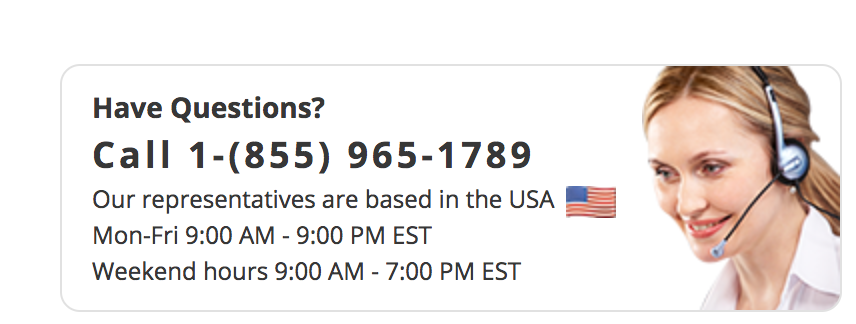
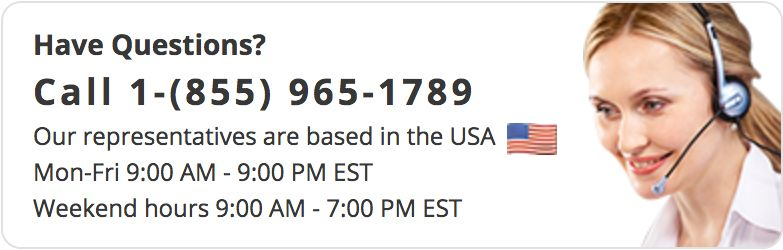
5 steps email ui issue fixed

diff --git a/resources/views/new_emails/pdf/finalSigningInstructions.blade.php b/resources/views/new_emails/pdf/finalSigningInstructions.blade.php
@@ -39,12 +39,12 @@
                 <table cellpadding="0" cellspacing="0" border="0" width="600" class="container">
                     <tr>
                         <td style="background: #003b7b; color:#fff; text-align: center; font-size: 18px; padding: 14px 10px;">
-                                <span style="color: #99cc33;">Need Help?</span> 1-855-965-1789
+                               <span style="color: #99cc33;">Need Help?</span> 1-855-965-1789
                         </td>
                     </tr>
                     <tr>
                         <td>
-                            <img src="{{url('/')}}/images/logo.jpg" alt="simplywilled.com" style="display: block;">
+                            <a href="{{url('/')}}"><img src="{{url('/')}}/images/logo.jpg" alt="simplywilled.com" style="display: block;"></a>
                         </td>
                     </tr>
                     <tr>
@@ -73,11 +73,11 @@
                         <tr>
                           <td>
                             <!-- Contact & Follow Buttons -->
-                             <div style="text-align: center;padding: 15px 0;">
-                              <div style="text-align: center;">
-                                  <img src="{{url('/')}}/images/callus.jpg" style="height: 155px; margin-top: -40px;" alt="">
+                             <div style="text-align: center;padding: 15px 0; background: #fff;">
+                              <div style="text-align: center; padding-top: 15px">
+                                  <a href="{{url('/')}}"><img src="{{url('/')}}/images/callus.jpg" style="height: 155px;" alt=""></a>
                               </div>
-                              <ul style="list-style-type: none; margin-top: -8px; text-align: center;">
+                              <ul style="list-style-type: none; margin-top: 10px; text-align: center;">
                                   <li style="display: inline-block; padding: 5px; "><a href="https://www.facebook.com/SimplyWilled"><img src="{{url('/')}}/images/fd-icon.png"></a></li>
                                   <li style="display: inline-block; padding: 5px;"><a href="https://twitter.com/simplywilled"><img src="{{url('/')}}/images/ttr-icon.png"></a></li>
                                   <li style="display: inline-block; padding: 5px;"><a href="https://www.linkedin.com/company/simplywilled.com"><img  src="{{url('/')}}/images/in-icon.png"></a></li>

diff --git a/resources/views/new_emails/pdf/lastWill.blade.php b/resources/views/new_emails/pdf/lastWill.blade.php
@@ -44,7 +44,7 @@
                     </tr>
                     <tr>
                         <td>
-                            <img src="{{url('/')}}/images/logo.jpg" alt="simplywilled.com" style="display: block;">
+                            <a href="{{url('/')}}"><img src="{{url('/')}}/images/logo.jpg" alt="simplywilled.com" style="display: block;"></a>
                         </td>
                     </tr>
                     <tr>
@@ -73,17 +73,17 @@
                         <tr>
                           <td>
                             <!-- Contact & Follow Buttons -->
-                            <div style="text-align: center;padding: 15px 0;">
-                              <div style="text-align: center;">
-                                  <img src="{{url('/')}}/images/callus.jpg" style="height: 155px; margin-top: -40px;" alt="">
+                            <div style="text-align: center;padding: 15px 0; background: #fff;">
+                              <div style="text-align: center; padding-top: 15px">
+                                  <a href="{{url('/')}}"><img src="{{url('/')}}/images/callus.jpg" style="height: 155px;" alt=""></a>
                               </div>
-                              <ul style="list-style-type: none; margin-top: -8px; text-align: center;">
+                              <ul style="list-style-type: none; margin-top: 10px; text-align: center;">
                                   <li style="display: inline-block; padding: 5px; "><a href="https://www.facebook.com/SimplyWilled"><img src="{{url('/')}}/images/fd-icon.png"></a></li>
                                   <li style="display: inline-block; padding: 5px;"><a href="https://twitter.com/simplywilled"><img src="{{url('/')}}/images/ttr-icon.png"></a></li>
                                   <li style="display: inline-block; padding: 5px;"><a href="https://www.linkedin.com/company/simplywilled.com"><img  src="{{url('/')}}/images/in-icon.png"></a></li>
                                   <li style="display: inline-block; padding: 5px;"><a href="https://www.instagram.com/simplywilled"><img src="{{url('/')}}/images/gram-icon.png"></a></li>
                                 </ul>
-                            </div>
+                            </div> 
                           </td>
                         </tr>
                         <tr>

diff --git a/resources/views/new_emails/pdf/finances.blade.php b/resources/views/new_emails/pdf/finances.blade.php
@@ -44,7 +44,7 @@
                     </tr>
                     <tr>
                         <td>
-                            <img src="{{url('/')}}/images/logo.jpg" alt="simplywilled.com" style="display: block;">
+                           <a href="{{url('/')}}"><img src="{{url('/')}}/images/logo.jpg" alt="simplywilled.com" style="display: block;"></a>
                         </td>
                     </tr>
                     <tr>
@@ -73,17 +73,17 @@
                         <tr>
                           <td>
                             <!-- Contact & Follow Buttons -->
-                            <div style="text-align: center;padding: 15px 0;">
-                              <div style="text-align: center;">
-                                  <img src="{{url('/')}}/images/callus.jpg" style="height: 155px; margin-top: -40px;" alt="">
+                            <div style="text-align: center;padding: 15px 0; background: #fff;">
+                              <div style="text-align: center; padding-top: 15px">
+                                  <a href="{{url('/')}}"><img src="{{url('/')}}/images/callus.jpg" style="height: 155px;" alt=""></a>
                               </div>
-                              <ul style="list-style-type: none; margin-top: -8px; text-align: center;">
+                              <ul style="list-style-type: none; margin-top: 10px; text-align: center;">
                                   <li style="display: inline-block; padding: 5px; "><a href="https://www.facebook.com/SimplyWilled"><img src="{{url('/')}}/images/fd-icon.png"></a></li>
                                   <li style="display: inline-block; padding: 5px;"><a href="https://twitter.com/simplywilled"><img src="{{url('/')}}/images/ttr-icon.png"></a></li>
                                   <li style="display: inline-block; padding: 5px;"><a href="https://www.linkedin.com/company/simplywilled.com"><img  src="{{url('/')}}/images/in-icon.png"></a></li>
                                   <li style="display: inline-block; padding: 5px;"><a href="https://www.instagram.com/simplywilled"><img src="{{url('/')}}/images/gram-icon.png"></a></li>
                                 </ul>
-                            </div>
+                            </div> 
                           </td>
                         </tr>
                         <tr>

diff --git a/resources/views/new_emails/pdf/finalDisposition.blade.php b/resources/views/new_emails/pdf/finalDisposition.blade.php
@@ -44,7 +44,7 @@
                     </tr>
                     <tr>
                         <td>
-                            <img src="{{url('/')}}/images/logo.jpg" alt="simplywilled.com" style="display: block;">
+                            <a href="{{url('/')}}"><img src="{{url('/')}}/images/logo.jpg" alt="simplywilled.com" style="display: block;"></a>
                         </td>
                     </tr>
                     <tr>
@@ -73,11 +73,11 @@
                         <tr>
                           <td>
                             <!-- Contact & Follow Buttons -->
-                            <div style="text-align: center;padding: 15px 0;">
-                              <div style="text-align: center;">
-                                  <img src="{{url('/')}}/images/callus.jpg" style="height: 155px; margin-top: -40px;" alt="">
+                            <div style="text-align: center;padding: 15px 0; background: #fff;">
+                              <div style="text-align: center; padding-top: 15px">
+                                  <a href="{{url('/')}}"><img src="{{url('/')}}/images/callus.jpg" style="height: 155px;" alt=""></a>
                               </div>
-                              <ul style="list-style-type: none; margin-top: -8px; text-align: center;">
+                              <ul style="list-style-type: none; margin-top: 10px; text-align: center;">
                                   <li style="display: inline-block; padding: 5px; "><a href="https://www.facebook.com/SimplyWilled"><img src="{{url('/')}}/images/fd-icon.png"></a></li>
                                   <li style="display: inline-block; padding: 5px;"><a href="https://twitter.com/simplywilled"><img src="{{url('/')}}/images/ttr-icon.png"></a></li>
                                   <li style="display: inline-block; padding: 5px;"><a href="https://www.linkedin.com/company/simplywilled.com"><img  src="{{url('/')}}/images/in-icon.png"></a></li>

diff --git a/resources/views/new_emails/pdf/statesDoc.blade.php b/resources/views/new_emails/pdf/statesDoc.blade.php
@@ -44,7 +44,7 @@
                     </tr>
                     <tr>
                         <td>
-                            <img src="{{url('/')}}/images/logo.jpg" alt="simplywilled.com" style="display: block;">
+                            <a href="{{url('/')}}"><img src="{{url('/')}}/images/logo.jpg" alt="simplywilled.com" style="display: block;"></a>
                         </td>
                     </tr>
                     <tr>
@@ -73,11 +73,11 @@
                         <tr>
                           <td>
                             <!-- Contact & Follow Buttons -->
-                            <div style="text-align: center;padding: 15px 0;">
-                              <div style="text-align: center;">
-                                  <img src="{{url('/')}}/images/callus.jpg" style="height: 155px; margin-top: -40px;" alt="">
+                            <div style="text-align: center;padding: 15px 0; background: #fff;">
+                              <div style="text-align: center; padding-top: 15px">
+                                  <a href="{{url('/')}}"><img src="{{url('/')}}/images/callus.jpg" style="height: 155px;" alt=""></a>
                               </div>
-                              <ul style="list-style-type: none; margin-top: -8px; text-align: center;">
+                              <ul style="list-style-type: none; margin-top: 10px; text-align: center;">
                                   <li style="display: inline-block; padding: 5px; "><a href="https://www.facebook.com/SimplyWilled"><img src="{{url('/')}}/images/fd-icon.png"></a></li>
                                   <li style="display: inline-block; padding: 5px;"><a href="https://twitter.com/simplywilled"><img src="{{url('/')}}/images/ttr-icon.png"></a></li>
                                   <li style="display: inline-block; padding: 5px;"><a href="https://www.linkedin.com/company/simplywilled.com"><img  src="{{url('/')}}/images/in-icon.png"></a></li>
